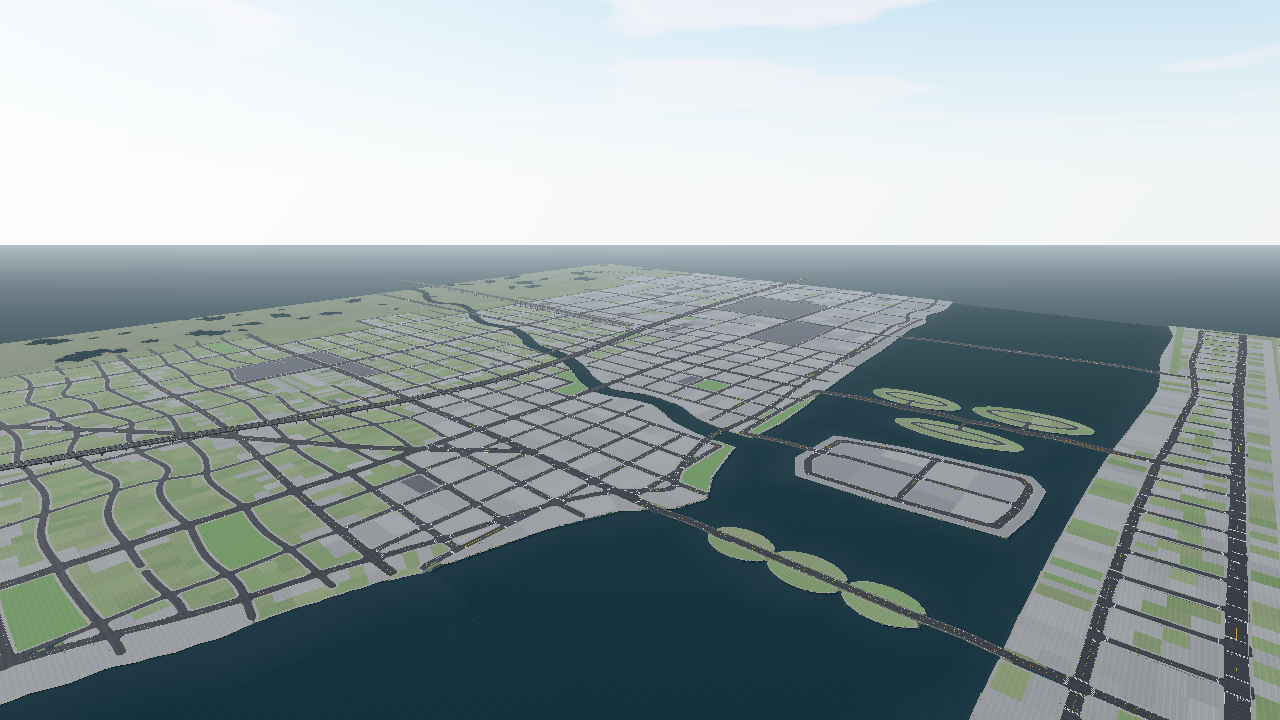
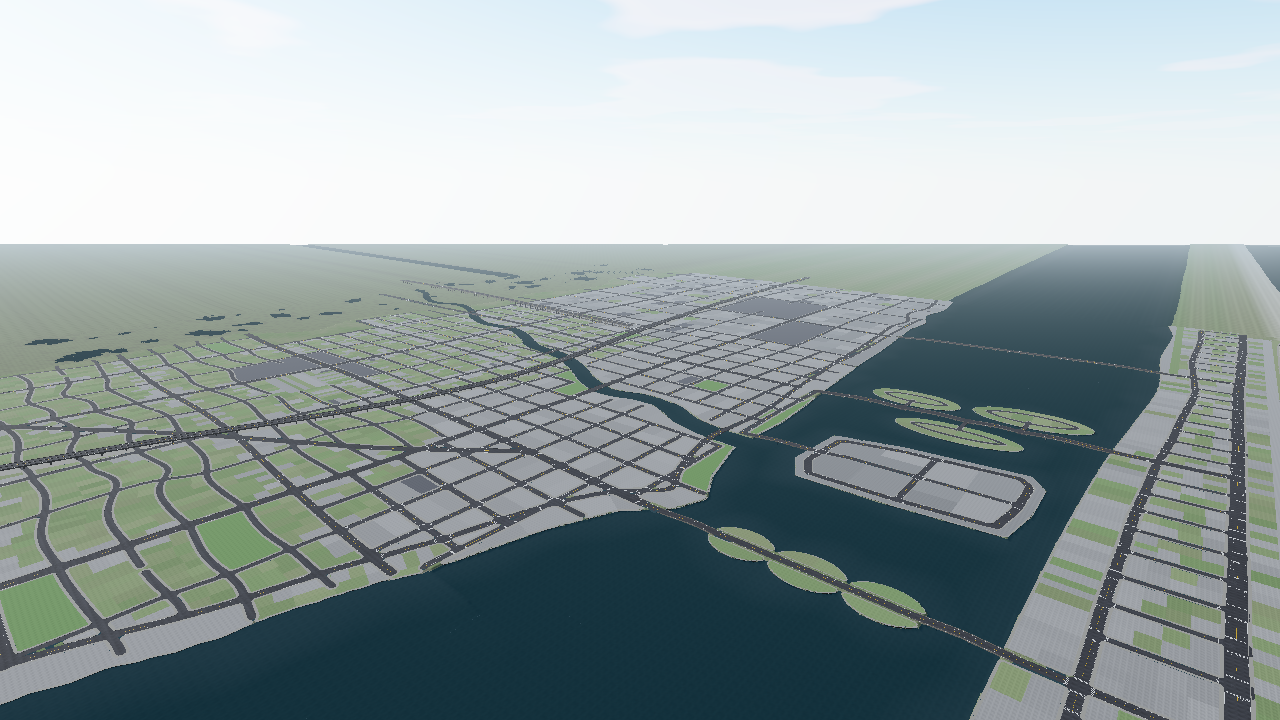
Continue land, bay and ocean beyond the map edge to the horizon
Claude-Session: https://claude.ai/code/session_01UTQ5rGxVvYxVSdZszpfjTY

Changed region(s): [[0.0, 0.3361, 0.4375, 0.4889], [0.5, 0.3361, 0.8125, 0.4278], [0.9062, 0.3361, 1.0, 0.4889]]

diff --git a/src/world/mesh/farTerrain.ts b/src/world/mesh/farTerrain.ts
@@ -1,0 +1,54 @@
+// Low-detail land and seabed beyond the playable map, out to the horizon. Each far
+// vertex copies the nearest map-edge sample, so coastlines, the bay and the barrier
+// island visibly continue past the edge instead of ending at a cliff.
+import type { NoiseFunction2D } from 'simplex-noise';
+import { MAP_HALF } from '../config';
+import type { WorldData } from '../gen/world';
+import type { Heights } from './heights';
+import { MeshBuilder, type MeshData } from './meshData';
+import { terrainColor } from './terrainMesh';
+
+const FAR = 9000;
+const CELL = 64;
+
+export function buildFarTerrain(world: WorldData, h: Heights, noise: NoiseFunction2D): MeshData {
+  const out = new MeshBuilder();
+  const t = world.terrain;
+  const n = t.n;
+  const count = Math.round((2 * FAR) / CELL) + 1;
+  const ids = new Int32Array(count * count).fill(-1);
+  const inside = (x: number, z: number): boolean => Math.abs(x) < MAP_HALF - 1 && Math.abs(z) < MAP_HALF - 1;
+  for (let j = 0; j < count; j++) {
+    for (let i = 0; i < count; i++) {
+      const x = -FAR + i * CELL;
+      const z = -FAR + j * CELL;
+      // Snap vertices near the map edge onto it so the far mesh meets the map exactly.
+      const cx = Math.max(-MAP_HALF, Math.min(MAP_HALF, x));
+      const cz = Math.max(-MAP_HALF, Math.min(MAP_HALF, z));
+      const si = Math.round((cx - t.origin) / t.res);
+      const sj = Math.round((cz - t.origin) / t.res);
+      const k = Math.min(n - 1, sj) * n + Math.min(n - 1, si);
+      const dist = Math.max(Math.abs(x) - MAP_HALF, Math.abs(z) - MAP_HALF, 0);
+      let y = h.display[k];
+      // Far land settles to a flat plain; far water deepens.
+      if (y > 0) y = y + (1.4 - y) * Math.min(1, dist / 1500) + 0.6 * noise(x / 900, z / 900) * Math.min(1, dist / 800);
+      else y = y - Math.min(12, dist * 0.004);
+      ids[j * count + i] = out.vertex(x, y, z, 0, 1, 0, x / 40, z / 40, terrainColor(world, k, cx, cz, noise));
+    }
+  }
+  for (let j = 0; j + 1 < count; j++) {
+    for (let i = 0; i + 1 < count; i++) {
+      const x0 = -FAR + i * CELL;
+      const z0 = -FAR + j * CELL;
+      // Skip cells fully inside the map (the detailed terrain covers them).
+      if (inside(x0, z0) && inside(x0 + CELL, z0) && inside(x0, z0 + CELL) && inside(x0 + CELL, z0 + CELL)) continue;
+      const a = ids[j * count + i];
+      const b = ids[j * count + i + 1];
+      const c = ids[(j + 1) * count + i];
+      const e = ids[(j + 1) * count + i + 1];
+      out.tri(a, c, e);
+      out.tri(a, e, b);
+    }
+  }
+  return out.build();
+}

diff --git a/src/world/mesh/chunks.ts b/src/world/mesh/chunks.ts
@@ -6,9 +6,10 @@ import type { WorldData } from '../gen/world';
 import { makeNoise } from '../noise';
 import { buildBlocks } from './blockMesh';
 import { Heights } from './heights';
-import { BucketBuilder, type MeshBuckets, type MeshBuilder } from './meshData';
+import { BucketBuilder, type MeshBuckets, type MeshBuilder, type MeshData } from './meshData';
 import { buildRoads } from './roadMesh';
 import { buildBridges, buildHighways } from './structures';
+import { buildFarTerrain } from './farTerrain';
 import { buildTerrainTile } from './terrainMesh';
 
 /** Render chunk size (m): 8 x 8 chunks over the map. */
@@ -30,6 +31,8 @@ export interface CityMeshes {
   displayHeights: Float32Array;
   /** Road node deck heights. */
   nodeY: Float32Array;
+  /** Low-detail land and seabed beyond the map edge. */
+  far: MeshData;
 }
 
 export function buildCityMeshes(world: WorldData, progress: (stage: string, f: number) => void = () => {}): CityMeshes {
@@ -69,5 +72,6 @@ export function buildCityMeshes(world: WorldData, progress: (stage: string, f: n
       chunks.push({ i, j, x: -MAP_HALF + (i + 0.5) * RENDER_CHUNK, z: -MAP_HALF + (j + 0.5) * RENDER_CHUNK, buckets });
     }
   }
-  return { chunks, displayHeights: h.display, nodeY: h.nodeY };
+  const far = buildFarTerrain(world, h, noise);
+  return { chunks, displayHeights: h.display, nodeY: h.nodeY, far };
 }

diff --git a/src/render/cityRenderer.ts b/src/render/cityRenderer.ts
@@ -68,6 +68,13 @@ export class CityRenderer {
       }
       this.root.add(group);
     }
+    // Land and seabed beyond the map edge.
+    const farStyle = this.materials.get('terrain')!;
+    const far = new THREE.Mesh(toBufferGeometry(city.far), farStyle.material);
+    far.name = 'far terrain';
+    far.receiveShadow = true;
+    far.matrixAutoUpdate = false;
+    this.root.add(far);
     scene.add(this.root);
 
     // Sea surface: one big plane at sea level, larger than the map so the horizon is water.

diff --git a/src/world/gen/worker.ts b/src/world/gen/worker.ts
@@ -12,6 +12,7 @@ self.onmessage = (e: MessageEvent<{ seed: number; meshes: boolean }>) => {
   if (city) {
     transfer.push(city.displayHeights.buffer as ArrayBuffer, city.nodeY.buffer as ArrayBuffer);
     for (const c of city.chunks) for (const m of c.buckets.values()) transfer.push(...meshTransferables(m));
+    transfer.push(...meshTransferables(city.far));
   }
   self.postMessage({ type: 'done', world, city }, { transfer });
 };
